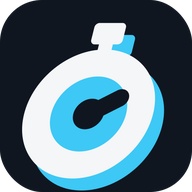
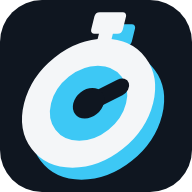
앱 아이콘 로고 위아래 가운데 정렬 (#73)
* Center the app icon symbol vertically

The stopwatch sat low in the tile: its shadow nearly touched the bottom
edge while the top had extra room. Shift the symbol up so the top of the
crown and the bottom of the shadow have equal margins (symbol.svg -3.58,
favicon.svg -1.53), and re-render every PNG icon and favicon.ico from
the SVGs. Maskable icon keeps its 80% safe-zone scale. Bump the SW cache
to 42 so installed apps pick up the new icons.

Claude-Session: https://claude.ai/code/session_019gxRjBXhWDsaMnKhJN3omg

* Add learning on regenerating app icons

Claude-Session: https://claude.ai/code/session_019gxRjBXhWDsaMnKhJN3omg

---------

diff --git a/sw.js b/sw.js
@@ -1,4 +1,4 @@
-const CACHE = 'hoohaa-shell-41';
+const CACHE = 'hoohaa-shell-42';
 const SHELL = [
   '/app/',
   '/app/index.html',

diff --git a/.trail/learnings/2026-11-03-svg-png-80-claude.md b/.trail/learnings/2026-11-03-svg-png-80-claude.md
@@ -1,0 +1,39 @@
+---
+title: "앱 아이콘은 SVG 원본을 고친 뒤 PNG를 모두 다시 렌더한다: 그림자까지 포함해 위아래 가운데, 마스커블은 80% 크기"
+author: Claude
+date: 2026-11-03
+branch: claude/quirky-hypatia-cy3r0y
+cost: { minutes: 2, tokens: 55168 }
+id: l-3aa18b62
+scope: repo
+status: active
+src: agent
+touches:
+  - favicon.ico
+  - favicon.svg
+  - icons/apple-touch-icon.png
+  - icons/icon-192.png
+  - icons/icon-32.png
+  - icons/icon-512.png
+  - icons/icon-maskable-512.png
+  - icons/symbol.svg
+  - sw.js
+---
+
+## Decided
+- 로고는 하늘색 그림자까지 포함한 전체 높이로 위아래 가운데를 맞춘다. 예전에는 그림자가 타일 바닥에 거의 닿아 아이콘이 아래로 처져 보였다. 좌우는 원래 거의 가운데라 건드리지 않았다.
+- PNG 아이콘은 저장소에 만드는 스크립트가 없다. SVG 원본을 고친 뒤 Playwright(Chromium)로 크기별로 다시 렌더했다. 종류별 규칙은 이렇다:
+  - icon-32/192/512: 둥근 모서리 그대로, 모서리 밖은 투명
+  - apple-touch-icon(180): 모서리 없이 꽉 찬 사각 배경(#0F1620), 로고 크기 1배, RGB
+  - icon-maskable-512: 꽉 찬 사각 배경, 로고를 가운데 기준 0.8배(안드로이드 안전 영역), RGB
+  - favicon.ico: favicon.svg에서 16·32px
+
+## Watch out
+- 렌더할 때 svg 태그의 width/height만 바꾸고, 안쪽 rect의 width="64"는 건드리면 안 된다. 정규식으로 처음 나오는 width/height를 지우면 배경 rect가 사라진다.
+- 둥근 모서리 PNG의 위아래 여백을 픽셀로 잴 때 모서리의 반투명 픽셀이 전경으로 잡혀 값이 틀리게 나온다. 눈으로 미리보기를 확인한다.
+- 아이콘은 서비스 워커 캐시 목록에 있으므로 바꾸면 캐시 번호도 올린다.
+
+In the code:
+- icons/symbol.svg 바깥 transform translate(10,-3.58) (그림 범위 y 7.66~63.5 → 가운데 32)
+- favicon.svg translate(5,-1.53) (y 2.06~33)
+- sw.js CACHE hoohaa-shell-42
